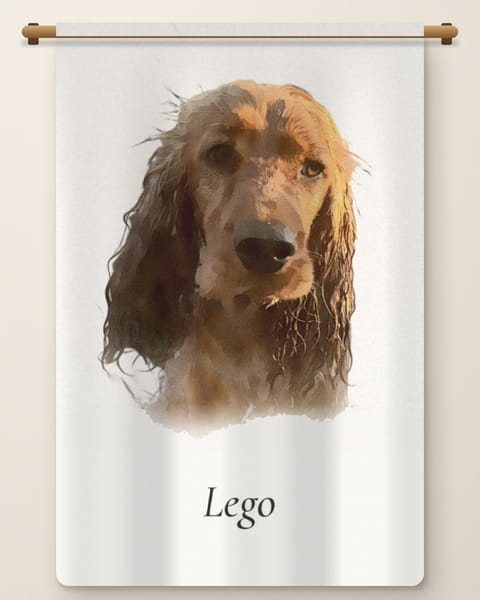
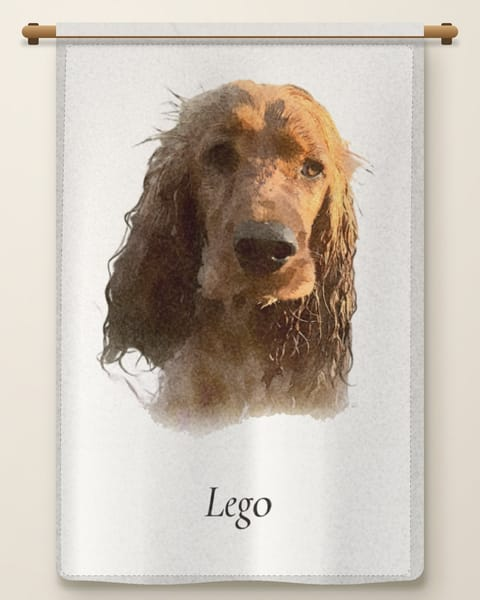
Blanket mockup reads as fleece: greyscale texture, broad folds, stitched hem, fuzzy edge
Claude-Session: https://claude.ai/code/session_01UCUSKhpSLerF4seEvYFAdx

diff --git a/portretai/src/mockup-products.js b/portretai/src/mockup-products.js
@@ -8,10 +8,13 @@ const SCENE_W = 2000;
 const SCENE_H = 2500;
 
 function noiseBuffer(width, height, sigma, mean = 128) {
+  // Greyscale noise: the same value in all three channels, so it never tints.
   const raw = Buffer.alloc(width * height * 3);
-  for (let i = 0; i < raw.length; i++) {
-    const v = Math.round(mean + sigma * (Math.random() + Math.random() + Math.random() - 1.5) * 1.4);
-    raw[i] = Math.max(0, Math.min(255, v));
+  for (let i = 0; i < raw.length; i += 3) {
+    const v = Math.max(0, Math.min(255, Math.round(mean + sigma * (Math.random() + Math.random() + Math.random() - 1.5) * 1.4)));
+    raw[i] = v;
+    raw[i + 1] = v;
+    raw[i + 2] = v;
   }
   return sharp(raw, { raw: { width, height, channels: 3 } }).png().toBuffer();
 }
@@ -27,63 +30,86 @@ export async function buildBlanketMockup(posterPng, size) {
   const bx = Math.round((SCENE_W - bw) / 2);
   const by = 300;
 
-  // Fleece prints are softer than paper: slight blur and lower contrast.
+  // Fleece prints are softer than paper: slight blur, lower contrast, no pure white.
+  // A bound hem (darker band and a stitch line) is drawn on the flat print, so
+  // the folds below bend it with the fabric.
+  const inset = Math.round(bw * 0.028);
+  const hem =
+    `<svg xmlns="http://www.w3.org/2000/svg" width="${bw}" height="${bh}">` +
+    `<rect x="0" y="0" width="${bw}" height="${bh}" fill="none" stroke="#3a2c1e" stroke-opacity="0.13" stroke-width="${inset * 2}"/>` +
+    `<rect x="${inset}" y="${inset}" width="${bw - 2 * inset}" height="${bh - 2 * inset}" rx="${inset}" fill="none" stroke="#3a2c1e" stroke-opacity="0.32" stroke-width="2.4" stroke-dasharray="9 7"/>` +
+    `<rect x="${inset + 2}" y="${inset + 2}" width="${bw - 2 * inset - 4}" height="${bh - 2 * inset - 4}" rx="${inset}" fill="none" stroke="#fff" stroke-opacity="0.35" stroke-width="1.4" stroke-dasharray="9 7"/>` +
+    `</svg>`;
   const soft = await sharp(print)
     .resize({ width: bw, height: bh, fit: 'fill' })
-    .blur(1.6)
-    .modulate({ saturation: 0.9 })
-    .linear(0.88, 16)
+    .blur(1.4)
+    .modulate({ saturation: 0.92 })
+    .linear(0.86, 18)
+    .composite([{ input: Buffer.from(hem), left: 0, top: 0 }])
+    .removeAlpha()
     .raw()
     .toBuffer({ resolveWithObject: true });
 
-  // Folds: the fabric hangs from the rail in a few soft waves. Each column is
-  // shifted slightly and shaded by the slope of the wave.
+  // Folds: a few broad, uneven waves that open up lower down. Light comes from
+  // the upper left, so slopes facing it are a little lighter; the troughs are
+  // a little darker. The hem and the sides follow the folds.
   const { data, info } = soft;
   const out = Buffer.alloc(bw * bh * 4);
-  // Fleece hangs in a few broad, soft folds.
+  // Only the broad waves shade the fabric; narrow ones would read as satin.
   const waves = [
-    { k: (2 * Math.PI) / 520, a: 9, p: 0.3 },
-    { k: (2 * Math.PI) / 260, a: 3, p: 1.7 },
+    { k: (2 * Math.PI) / 560, a: 16, p: 0.3, drift: 0.0004, shade: 1 },
+    { k: (2 * Math.PI) / 300, a: 6, p: 1.7, drift: -0.0009, shade: 0.5 },
+    { k: (2 * Math.PI) / 140, a: 1.5, p: 4.1, drift: 0.0015, shade: 0 },
   ];
-  const r = Math.round(bw * 0.035); // rounded hem corners
+  const r = Math.round(bw * 0.04);
   for (let y = 0; y < bh; y++) {
-    const depth = Math.min(1, y / (bh * 0.35)); // folds open up lower down
+    const depth = Math.min(1, Math.pow(y / (bh * 0.45), 0.8));
     for (let x = 0; x < bw; x++) {
       let dx = 0;
       let slope = 0;
+      let lift = 0;
       for (const w of waves) {
-        dx += w.a * depth * Math.sin(w.k * x + w.p);
-        slope += w.a * depth * w.k * Math.cos(w.k * x + w.p);
+        const ph = w.k * x + w.p + w.drift * y;
+        dx += w.a * depth * Math.sin(ph);
+        slope += w.shade * w.a * depth * w.k * Math.cos(ph);
+        lift += w.shade * (w.a / 16) * depth * Math.sin(ph);
       }
       const sx = Math.min(bw - 1, Math.max(0, Math.round(x + dx)));
       const si = (y * bw + sx) * info.channels;
-      // Gentle shading only: fabric is matte, not metal.
-      const shade = 1 + Math.max(-0.09, Math.min(0.06, slope * 0.85)) - 0.03 * (1 - depth);
+      const shade = 1 + Math.max(-0.06, Math.min(0.035, -slope * 0.55)) + 0.025 * lift - 0.02 * (1 - depth);
       const o = (y * bw + x) * 4;
       out[o] = Math.max(0, Math.min(255, data[si] * shade));
       out[o + 1] = Math.max(0, Math.min(255, data[si + 1] * shade));
       out[o + 2] = Math.max(0, Math.min(255, data[si + 2] * shade));
-      // Rounded bottom corners; the top runs over the rail.
-      let alpha = 255;
-      if (y > bh - r) {
-        const cy = bh - r;
+      // Silhouette: the hem rises and falls with the folds, corners rounded.
+      const hemY = bh - 4 - 7 * depth * (1 + Math.sin(waves[0].k * x + waves[0].p + waves[0].drift * y));
+      let alpha = y > hemY ? 0 : 255;
+      if (alpha && y > hemY - r) {
         const cx = x < r ? r : x > bw - r ? bw - r : x;
-        if (Math.hypot(x - cx, y - cy) > r) alpha = 0;
+        if (Math.hypot(x - cx, y - (hemY - r)) > r) alpha = 0;
       }
       out[o + 3] = alpha;
     }
   }
   let blanket = await sharp(out, { raw: { width: bw, height: bh, channels: 4 } }).png().toBuffer();
-  // Fleece texture: fine fibres, multiplied in.
-  const fibres = await sharp(await noiseBuffer(bw, bh, 30)).blur(1.2).png().toBuffer();
-  const fibresOk = fibres && fibres.length > 0;
-  if (fibresOk) blanket = await sharp(blanket).composite([{ input: fibres, blend: 'soft-light' }]).png().toBuffer();
-  // Keep the rounded corners after the texture pass.
-  // The rounded silhouette is the alpha channel of the raw buffer: take it as
-  // a greyscale PNG, then use it as the alpha of the textured blanket.
+  // Fleece texture: soft clumps (coarse noise scaled up) plus fine fibres.
+  const clumps = await sharp(await noiseBuffer(Math.round(bw / 5), Math.round(bh / 5), 30))
+    .resize({ width: bw, height: bh, kernel: 'cubic' })
+    .blur(2)
+    .png()
+    .toBuffer();
+  const fibres = await sharp(await noiseBuffer(bw, bh, 22)).blur(0.7).png().toBuffer();
+  blanket = await sharp(blanket)
+    .composite([
+      { input: clumps, blend: 'soft-light' },
+      { input: fibres, blend: 'soft-light' },
+    ])
+    .png()
+    .toBuffer();
+  // Fleece has a fuzzy edge: the silhouette, blurred a little, becomes the alpha.
   const shapeRaw = Buffer.alloc(bw * bh);
   for (let i = 0; i < bw * bh; i++) shapeRaw[i] = out[i * 4 + 3];
-  const shapePng = await sharp(shapeRaw, { raw: { width: bw, height: bh, channels: 1 } }).png().toBuffer();
+  const shapePng = await sharp(shapeRaw, { raw: { width: bw, height: bh, channels: 1 } }).blur(1.8).png().toBuffer();
   const rgb = await sharp(blanket).removeAlpha().raw().toBuffer();
   blanket = await sharp(rgb, { raw: { width: bw, height: bh, channels: 3 } })
     .joinChannel(shapePng)
